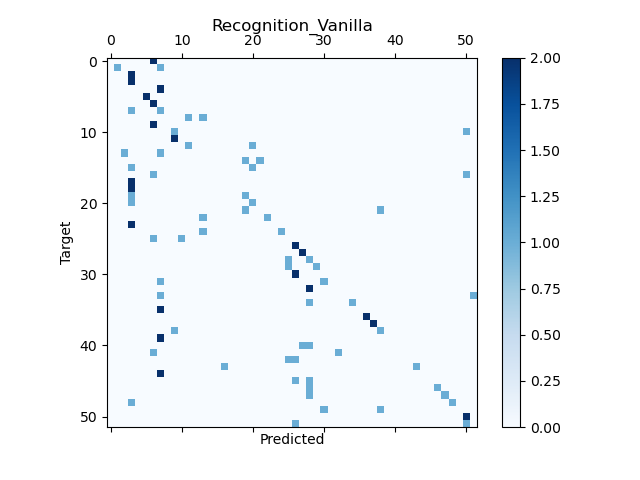
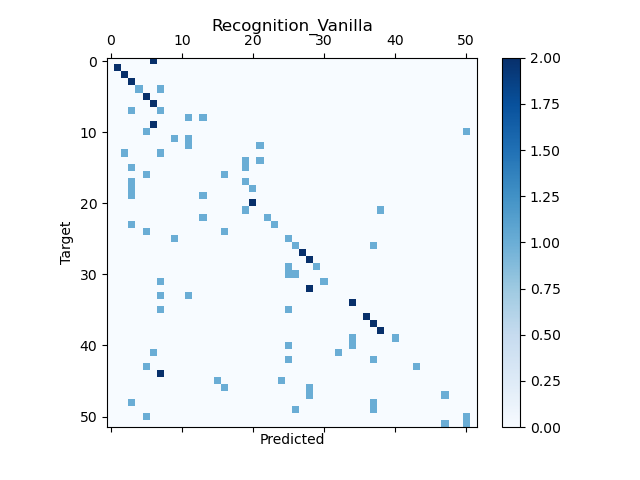
doing visualization

diff --git a/Q3/lda.py b/Q3/lda.py
@@ -20,12 +20,9 @@ from sklearn.preprocessing import StandardScaler
 from mpl_toolkits.mplot3d import Axes3D
 from einops import rearrange
 
-from utils.visualize import visualize_faces_with_row_label
 from utils.dataset import split_train_test
-from utils.visualize import visualize_confusion_matrix
-from utils.visualize import visualize_faces
-from utils.visualize import visualize_face
-from utils.visualize import visualize_graph
+from utils.visualize import visualize_face, visualize_faces, visualize_faces_with_row_label, visualize_graph, visualize_confusion_matrix
+
 
 warnings.filterwarnings("ignore")
 
@@ -58,53 +55,27 @@ def recognition_accuracy_lda(dataset):
 
     test_accuracy = np.zeros((52))
     train_accuracy = np.zeros((52))
-    # x = np.linspace(1, 365, num=365)
-    x = np.linspace(1, 52, num=52)
-    # x, y = np.meshgrid(x, y)
+    x = np.linspace(1, 53, num=53)
 
     for i_lda in range(1, 52):
-        # for i_pca in range(i_lda, 365, 10):
-            # """ 1. PCA """
-            # pca = PCA(n_components=i_pca)
-            # x_train_pca = pca.fit(x_train).transform(x_train)
-            # x_test_pca = pca.transform(x_test)
-    
             """ 2. LDA """
             lda = LinearDiscriminantAnalysis(n_components=i_lda)
             x_train_lda = lda.fit(x_train, y_train).transform(x_train)
             x_test_lda = lda.transform(x_test)
     
-            """ 3.3 PCA + LDA """
             clf_lda = KNeighborsClassifier(n_neighbors=52)
             clf_lda.fit(x_train_lda, y_train)
             train_accuracy[i_lda] = clf_lda.score(x_train_lda, y_train)
             test_accuracy[i_lda] = clf_lda.score(x_test_lda, y_test)
-    # max_x = np.argmax(train_accuracy, axis=0)
-    # max_y = np.argmax(train_accuracy, axis=1)
-    # max_x_test = np.argmax(test_accuracy, axis=0)
-    # max_y_test = np.argmax(test_accuracy, axis=1)
-    visualize_graph(x_axis=x, y_axes=[train_accuracy, test_accuracy], 
-                    xlabel='M_lda', ylabel='Accurcy', legend=['Train', 'Test'], title='LDA Recognition Accuracy')
 
-
-    # plt.figure(figsize=(6, 6))
-    # ax = plt.subplot(1, 1, 1, projection='3d')
-    # ax.plot_surface(x, y, train_accuracy, alpha=0.3, color='blue', edgecolor='blue')
-    # plt.title('Train')
-    # plt.xlabel('M_lda')
-    # plt.ylabel('M_pca')
-    # plt.savefig('Q3/figures/Train_Recognition_Accuracy.png')
-    # plt.show()
-
-    # plt.figure(figsize=(6, 6))
-    # ax = plt.subplot(1, 1, 1, projection='3d')
-    # ax.plot_surface(x, y, test_accuracy, alpha=0.3, color='blue', edgecolor='blue')
-    # plt.title('Test')
-    # plt.xlabel('M_pca')
-    # plt.ylabel('M_lda')
-    # plt.savefig('Q3/figures/Test_Recognition_Accuracy.png')
-    # plt.show()
-
+    plt.clf()
+    plt.plot(np.arange(52), np.array(train_accuracy))
+    plt.plot(np.arange(52), np.array(test_accuracy))
+    plt.xlabel('M_lda')
+    plt.ylabel('Recognition Accuracy')
+    plt.legend(['train', 'test'])
+    plt.savefig('figures/LDA Recognition Accuracy')
+    plt.show()
 
 def recognition_accuracies(dataset):
     x_train = dataset["train_faces"]
@@ -171,10 +142,9 @@ if __name__ == '__main__':
     parser.add_argument("--m_pca", default=52 - 1, type=int, help="Dimension in PCA")  # Number of Images - class
     parser.add_argument("--m_lda", default=52 - 1, type=int, help="Dimension in LDA")  # class - 1
 
-    parser.set_defaults(vis=False)
+    parser.set_defaults(vis=True)
 
     args = parser.parse_args()
-
     # face_data = io.loadmat('Q3/data/face.mat')
     face_data = io.loadmat('data/face.mat')
     faces, identities = face_data['X'], face_data['l']
@@ -193,14 +163,14 @@ if __name__ == '__main__':
     x_test_original = x_test.copy()
     average_face = np.average(x_train, axis=0)
 
-    # sc = StandardScaler()
-    # x_train = sc.fit_transform(x_train)
-    # x_test = sc.transform(x_test)
+    sc = StandardScaler()
+    x_train = sc.fit_transform(x_train)
+    x_test = sc.transform(x_test)
     
 
     """ 1. PCA """
     start = time.time()
-    pca = PCA(n_components=364)
+    pca = PCA(n_components=51)
     x_train_pca = pca.fit(x_train).transform(x_train)  # N, Mpca 
     x_test_pca = pca.transform(x_test)
     calculation_time['pca'] = time.time() - start
@@ -216,7 +186,7 @@ if __name__ == '__main__':
     
     """ 2. LDA """
     start = time.time()
-    n_components=3
+    n_components=51
     lda = LinearDiscriminantAnalysis(n_components=n_components)
     x_train_lda = lda.fit(x_train_pca, y_train).transform(x_train_pca)
     x_test_lda = lda.transform(x_test_pca)
@@ -263,17 +233,20 @@ if __name__ == '__main__':
     """ 3.1.1 Examples """
     diff = prediction - rearrange(y_test, 'N 1 -> N', N=104)
     success_case = np.where(diff == 0)[0]
-    success_indices = np.random.choice(len(success_case), 5, replace=False)
-    success_images = np.array(x_test_original[success_indices])
-    visualize_faces(faces=success_images, n=1, title="success_case_vanilla", cols=5, rows=1)
+    success_images = np.array(x_test_original[2*prediction[success_case[2:7]]-1])
+
+    if args.vis:
+        visualize_faces(faces=success_images, n=1, title="success_case_vanilla", cols=5, rows=1)
     fail_case = np.where(diff != 0)[0]
-    fail_indices = np.random.choice(len(fail_case), 5, replace=False)
-    fail_indices_target = prediction[fail_indices]
-    fail_images = np.concatenate([x_test_original[fail_indices_target], x_test_original[fail_indices]], axis=0)
-    visualize_faces_with_row_label(faces=fail_images, n=1, title="fail_case_vanilla", cols=5, rows=2, rows_label=['Target', 'Predicted'])
+    fail_indices_target = (fail_case // 2) + 1
+    fail_images = np.concatenate([x_test_original[2*fail_indices_target[2:7]-1], x_test_original[2*prediction[fail_case[2:7]]-1]], axis=0)
+
+    if args.vis:
+        visualize_faces_with_row_label(faces=fail_images, n=1, title="fail_case_vanilla", cols=5, rows=2, rows_label=['Target', 'Predicted'])
 
     """ 3.1.2 Confusion Matrix """
-    visualize_confusion_matrix(y_test, prediction, 'Recognition_Vanilla')
+    if args.vis:
+        visualize_confusion_matrix(y_test, prediction, 'Recognition_Vanilla')
     
 
     """ 3.2 PCA """
@@ -290,17 +263,18 @@ if __name__ == '__main__':
     """ 3.2.1 Examples """
     diff = prediction_pca - rearrange(y_test, 'N 1 -> N', N=104)
     success_case = np.where(diff == 0)[0]
-    success_indices = np.random.choice(len(success_case), 5, replace=False)
-    success_images = np.array(x_test_original[success_indices])
-    visualize_faces(faces=success_images, n=1, title="success_case_pca", cols=5, rows=1)
+    success_images = np.array(x_test_original[2*prediction_pca[success_case[2:7]]-1])
+    if args.vis:
+      visualize_faces(faces=success_images, n=1, title="success_case_pca", cols=5, rows=1)
     fail_case = np.where(diff != 0)[0]
-    fail_indices = np.random.choice(len(fail_case), 5, replace=False)
-    fail_indices_target = prediction_pca[fail_indices]
-    fail_images = np.concatenate([x_test_original[fail_indices_target], x_test_original[fail_indices]], axis=0)
-    visualize_faces_with_row_label(faces=fail_images, n=1, title="fail_case_pca", cols=5, rows=2, rows_label=['Target', 'Predicted'])
+    fail_indices_target = (fail_case // 2) + 1
+    fail_images = np.concatenate([x_test_original[2*fail_indices_target[2:7]-1], x_test_original[2*prediction_pca[fail_case[2:7]]-1]], axis=0)
+    if args.vis:
+      visualize_faces_with_row_label(faces=fail_images, n=1, title="fail_case_pca", cols=5, rows=2, rows_label=['Target', 'Predicted'])
 
     """ 3.2.2 Confusion Matrix """
-    visualize_confusion_matrix(y_test, prediction_pca, 'Recognition_PCA')
+    if args.vis:
+      visualize_confusion_matrix(y_test, prediction_pca, 'Recognition_PCA')
 
 
     """ 3.3 PCA + LDA """
@@ -317,17 +291,24 @@ if __name__ == '__main__':
     """ 3.3.1 Examples """
     diff = prediction_lda - rearrange(y_test, 'N 1 -> N', N=104)
     success_case = np.where(diff == 0)[0]
-    success_indices = np.random.choice(len(success_case), 5, replace=False)
-    success_images = np.array(x_test_original[success_indices])
-    visualize_faces(faces=success_images, n=1, title="success_case_lda", cols=5, rows=1)
+    success_images = np.array(x_test_original[2*prediction_lda[success_case[2:7]]-1])
+    if args.vis:  
+      visualize_faces(faces=success_images, n=1, title="success_case_lda", cols=5, rows=1)
     fail_case = np.where(diff != 0)[0]
-    fail_indices = np.random.choice(len(fail_case), 5, replace=False)
-    fail_indices_target = prediction_lda[fail_indices]
-    fail_images = np.concatenate([x_test_original[fail_indices_target], x_test_original[fail_indices]], axis=0)
-    visualize_faces_with_row_label(faces=fail_images, n=1, title="fail_case_lda", cols=5, rows=2, rows_label=['Target', 'Predicted'])
-
+    fail_indices_target = (fail_case // 2) + 1
+    fail_images = np.concatenate([x_test_original[2*fail_indices_target[2:7]-1], x_test_original[2*prediction_lda[fail_case[2:7]]-1]], axis=0)
+    if args.vis:  
+      visualize_faces_with_row_label(faces=fail_images, n=1, title="fail_case_lda", cols=5, rows=2, rows_label=['Target', 'Predicted'])
+    
+    fail_case = np.where(prediction_lda == 4)[0]
+    fail_indices_target = (fail_case // 2) + 1
+    fail_images = np.concatenate([x_test_original[2*fail_indices_target[2:7]-1], x_test_original[2*prediction_lda[fail_case[2:7]]-1]], axis=0)
+    # if args.vis:  
+    visualize_faces_with_row_label(faces=fail_images, n=1, title="fail_case_lda_4", cols=5, rows=2, rows_label=['Target', 'Predicted'])
+    # visualize_face(x_test_original[6])  #identity 4
     """ 3.3.2 Confusion Matrix """
-    visualize_confusion_matrix(y_test, prediction_lda, 'Recognition_LDA')
+    if args.vis:  
+      visualize_confusion_matrix(y_test, prediction_lda, 'Recognition_LDA')
 
 
     # target = np.array(max_accuracy_target)[indices]
@@ -337,11 +318,11 @@ if __name__ == '__main__':
     #             nearest_neighbor @ max_accuracy_eigenvectors.T) @ max_accuracy_eigenvectors
 
     # inp = np.concatenate([target, target_reconstructed, nearest_neighbor, nearest_neighbor_reconstructed], axis=0)
-    # visualize_faces_with_row_label(inp, n=1, rows=4, cols=5, title="Nearest Neighbor Fail Cases")
 
     """ 4. Measure Recognition Accuracies """
-    # recognition_accuracies(dataset=dataset)
-    recognition_accuracy_lda(dataset=dataset)
+    # if args.vis:
+      # recognition_accuracies(dataset=dataset)
+      # recognition_accuracy_lda(dataset=dataset)
 
     """ 5. Calculation Time """
     for key, value in calculation_time.items():
